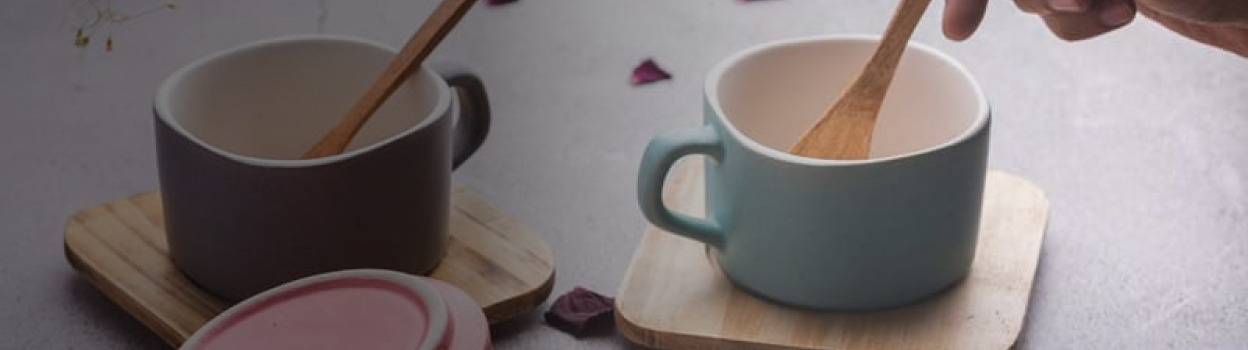
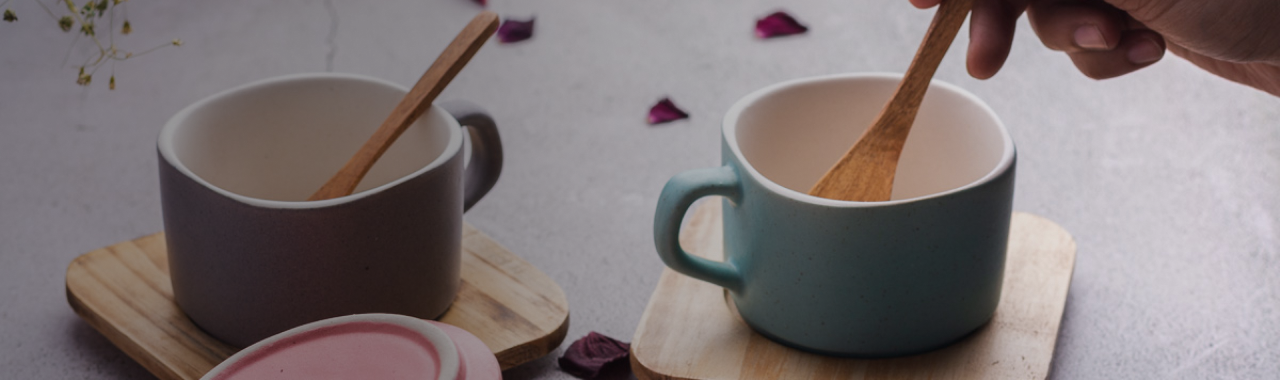
cover slider edited with caption

diff --git a/components/CoverSlider.js b/components/CoverSlider.js
@@ -2,16 +2,18 @@ import React from 'react';
 import useEmblaCarousel from 'embla-carousel-react';
 import Autoplay from 'embla-carousel-autoplay';
 import Image from 'next/image';
+import { useRouter } from 'next/router';
 
 const CoverSlider = () => {
   const [emblaRef, emblaApi] = useEmblaCarousel({ loop: true }, [Autoplay()]);
+  const router = useRouter();
 
   return (
-    <div className="embla overflow-hidden mt-4 mx-4" ref={emblaRef}>
+    <div className="embla overflow-hidden mt-4 mx-4 relative" ref={emblaRef}>
       <div className="embla_container flex">
         <div className="embla__slide relative" style={{ flex: '0 0 100%' }}>
           <Image
-            src="/static/banner1.jpg"
+            src="/static/banner6.jpg"
             width="900"
             height="500"
             layout="responsive"
@@ -38,6 +40,21 @@ const CoverSlider = () => {
             objectFit="cover"
           />
         </div>
+      </div>
+      <div className="w-full h-full absolute top-0 left-0 bg-zinc-900/20 flex flex-col justify-center items-center text-white font-bold text-lg md:text-2xl">
+        <span className="text-center mb-2 md:mb-4">
+          COME SEE <br />
+          WHAT YOU LOVE!
+        </span>
+        <span className="text-base font-normal">
+          Crockery | Stoneware | Ceramics | Decor
+        </span>
+        <button
+          className="rounded bg-rose-400 px-5 md:px-10 py-2 my-2 mt-8 text-white font-normal text-base md:text-lg font-bold hover:bg-rose-500 transition-[bg-color] ease-in duration-150"
+          onClick={() => router.push('/shop')}
+        >
+          SHOP NOW!
+        </button>
       </div>
     </div>
   );
